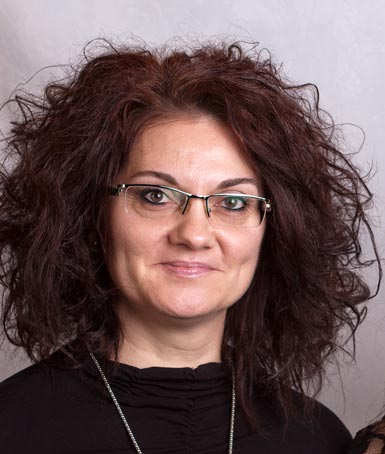
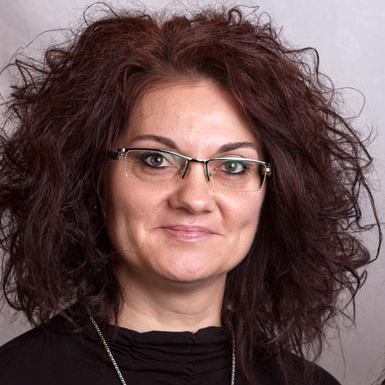
profile picture aspect ratio fixed

diff --git a/home/templates/index_no_intro.html b/home/templates/index_no_intro.html
@@ -70,51 +70,90 @@
         </div>
 
         <!--**********************************************   QUOTES  *********************************************************-->
-    <div class="container quotes-container">
-        <section class="quotes">
-            <div class="row">
-                <div class="col-12">
-                    <div class="section-title mt-5 mb-3 text-center">
-                        <h2>QUOTES:</h2>
-                    </div>
-                </div>
-            </div>
-            <div class="row">
-                <div class="col-12 col-md-6">
-                    <div class="media quote-card">
-                        <div class="d-none d-lg-block mr-3 quote-card-picture">
-                            <img class="quote-card-img" src="{% static 'images/profile_picture1.jpg' %}" alt="profile picture"></img>
+        <div class="container quotes-container">
+            <section class="quotes">
+                <div class="row">
+                    <div class="col-12">
+                        <div class="section-title mt-5 mb-3 text-center">
+                            <h2>QUOTES:</h2>
                         </div>
-                        <blockquote class="blockquote">
-                            <p class="mb-1 mx-1">I started to upload my photos here a couple of weeks ago and have already made the first few pennies... I'm so happy :)</p>
-                            <footer class="blockquote-footer">Aniko, <cite title="Source Title">hobby photographer</cite></footer>
-                        </blockquote>
                     </div>
                 </div>
-                <div class="col-12 col-md-6">
-                    <div class="media quote-card">
-                        <div class="d-none d-lg-block mr-3 quote-card-picture">
-                            <img class="quote-card-img" src="{% static 'images/profile_picture2.jpg' %}" alt="profile picture"></img>
+                <div class="row">
+                    <div class="col-12 col-md-6">
+                        <div class="media quote-card">
+                            <div class="d-none d-lg-block mr-3 quote-card-picture">
+                                <img class="quote-card-img" src="{% static 'images/profile_picture1.jpg' %}" alt="profile picture"></img>
+                            </div>
+                            <blockquote class="blockquote">
+                                <p class="mb-1 mx-1">I started to upload my photos here a couple of weeks ago and have already made the first few pennies... I'm so happy :)</p>
+                                <footer class="blockquote-footer">Aniko, <cite title="Source Title">hobby photographer</cite></footer>
+                            </blockquote>
                         </div>
-                        <blockquote class="blockquote">
-                            <p class="mb-1 mx-1">I'm very happy to be able to provide this service to fellow photographers and let you all 
-                            redecorate your entire homes. Business customers can have multi-purchase discounts, please contact me! </p>
-                            <footer class="blockquote-footer">Miklos, <cite title="Source Title">Owner</cite></footer>
-                        </blockquote>
+                    </div>
+                    <div class="col-12 col-md-6">
+                        <div class="media quote-card">
+                            <div class="d-none d-lg-block mr-3 quote-card-picture">
+                                <img class="quote-card-img" src="{% static 'images/profile_picture2.jpg' %}" alt="profile picture"></img>
+                            </div>
+                            <blockquote class="blockquote">
+                                <p class="mb-1 mx-1">I'm very happy to be able to provide this service to fellow photographers and let you all 
+                                redecorate your entire homes. Business customers can have multi-purchase discounts, please contact me! </p>
+                                <footer class="blockquote-footer">Miklos, <cite title="Source Title">Owner</cite></footer>
+                            </blockquote>
+                        </div>
                     </div>
                 </div>
+            </section>
+        </div>
+
+        <!-- Row for the requirements content (image- content, quality, resolution, aspect ratio; Creating profile requirements) -->
+        <div class="row mt-2 mt-md-4">
+            <div class="col-12">
+                <h3>Print Technologies</h3>
             </div>
-        </section>
-    </div>
+            <ul class="row">
+                <li class="row">
+                    <h4 class="col-12">Photo Print</h4>
+                    <p class="col-11 offset-1">In order to upload images, you need an <strong> artist profile. </strong>Click on the 
+                    PROFILE link in the navigation manu on the top of the page to access your profile. All this requires you to be logged 
+                    in - as you already have realised it :)</p>
+                </li>
 
-        <hr style="width: 300px; height: 1px; border: solid 2px red;">
-
-        <!-- Print technology descriptions -->
-        <h1>Future PRINT technologies section</h1>
-        
-        <hr style="width: 300px; height: 1px; border: solid 2px red;">
-
-        <h1>FOOTER</h1>
+                <li class="row">
+                    <h4 class="col-12">Image Content</h4>
+                    <p class="col-11 offset-1">Lorem ipsum dolor sit amet consectetur adipisicing elit. Ipsam repellat
+                        cumque
+                        architecto dolorem deserunt laborum
+                        recusandae voluptatum ipsa neque. Debitis in magni, possimus facilis qui consectetur nobis illum
+                        iusto
+                        libero?</p>
+                </li>
+                <li class="row">
+                    <h4 class="col-12">Image Quality</h4>
+                    <p class="col-11 offset-1">Lorem ipsum dolor sit amet consectetur adipisicing elit. Labore, aspernatur
+                        dignissimos. Deserunt accusamus facilis
+                        distinctio optio sint alias voluptatibus delectus maiores et asperiores voluptates ea minus, dolorem
+                        reiciendis pariatur ex.</p>
+                </li>
+                <li class="row">
+                    <h4 class="col-12">Image Resolution</h4>
+                    <p class="col-11 offset-1">Lorem ipsum dolor sit amet consectetur, adipisicing elit. Assumenda
+                        necessitatibus ex eveniet, facere fugiat quisquam
+                        inventore veritatis suscipit tempora optio animi voluptate explicabo amet eos sapiente ab quis saepe
+                        dicta.</p>
+                </li>
+                <li class="row">
+                    <h4 class="col-12">Image Aspect Ratio</h4>
+                    <p class="col-11 offset-1">Lorem, ipsum dolor sit amet consectetur adipisicing elit. Autem magni
+                        molestias
+                        sunt sed? Labore doloribus
+                        doloremque totam voluptatum inventore repellendus eligendi eius quod, nisi cumque, ad cum ut
+                        corrupti
+                        temporibus.</p>
+                </li>
+            </ul>
+        </div>
 
 
 	</section>
